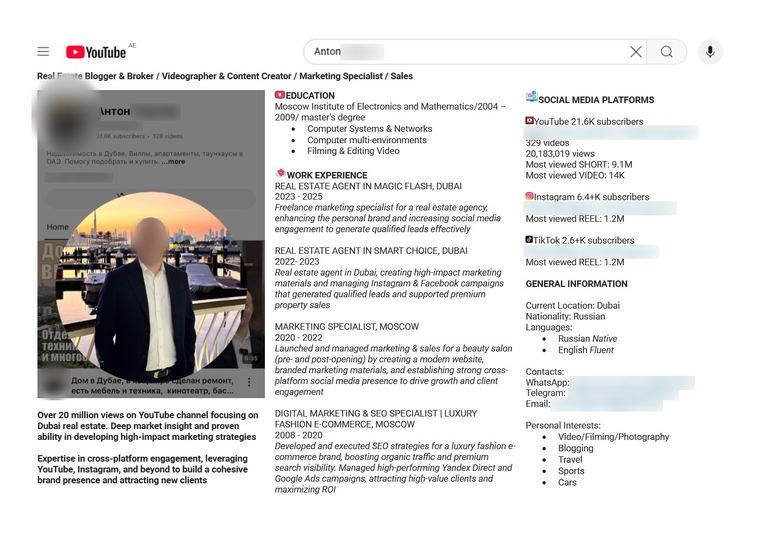
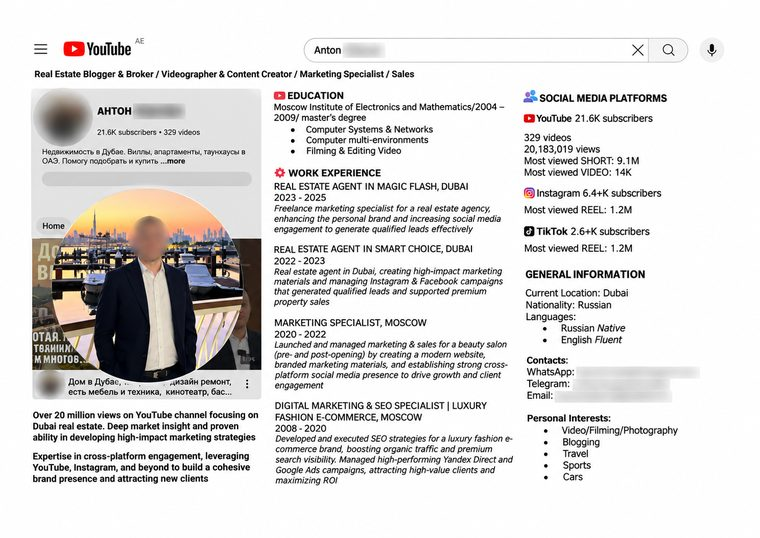
Sharper After images for Anton and Roman (new final versions)

Changed region(s): [[0.0303, 0.0596, 0.9382, 0.9236], [0.1816, 0.3873, 0.2118, 0.4171]]

diff --git a/index.html b/index.html
@@ -194,7 +194,7 @@
       <div>
         <div class="ba" data-ba>
           <div class="ba-layer ba-before"><img src="images/anton-u-before-p1.jpg" alt="Anton's original CV: portrait template with yellow header and dark sidebar" width="1400" height="1963"></div>
-          <div class="ba-layer ba-after"><img src="images/anton-u-after-p1.jpg" alt="Anton's rewritten CV: landscape layout with YouTube channel screenshot and social stats" width="1400" height="990"></div>
+          <div class="ba-layer ba-after"><img src="images/anton-u-after-p1.jpg?v=2" alt="Anton's rewritten CV: landscape layout with YouTube channel screenshot and social stats" width="1400" height="990"></div>
           <span class="tag b" data-i18n="tagB">Before</span><span class="tag a" data-i18n="tagA">After</span>
           <div class="ba-line"><div class="ba-knob"><svg viewBox="0 0 32 32" fill="none" stroke="currentColor" stroke-width="2" stroke-linecap="round" stroke-linejoin="round" aria-hidden="true"><path d="M12 10l-6 6 6 6M20 10l6 6-6 6"/></svg></div></div>
           <input type="range" min="0" max="100" value="50" step="0.5" aria-label="Compare Anton's CV before and after">
@@ -217,7 +217,7 @@
       <div>
         <div class="ba" data-ba>
           <div class="ba-layer ba-before"><img src="images/roman-old-p1.jpg" alt="Roman's original CV: dark portrait layout in Russian" width="1400" height="1948" loading="lazy"></div>
-          <div class="ba-layer ba-after"><img src="images/roman-en-p1.jpg" alt="Roman's rewritten CV in English, landscape layout" width="1400" height="990" loading="lazy"></div>
+          <div class="ba-layer ba-after"><img src="images/roman-en-p1.jpg?v=2" alt="Roman's rewritten CV in English, landscape layout" width="1400" height="990" loading="lazy"></div>
           <span class="tag b" data-i18n="tagB">Before</span><span class="tag a" data-i18n="tagA">After</span>
           <div class="ba-line"><div class="ba-knob"><svg viewBox="0 0 32 32" fill="none" stroke="currentColor" stroke-width="2" stroke-linecap="round" stroke-linejoin="round" aria-hidden="true"><path d="M12 10l-6 6 6 6M20 10l6 6-6 6"/></svg></div></div>
           <input type="range" min="0" max="100" value="50" step="0.5" aria-label="Compare Roman's CV before and after">
